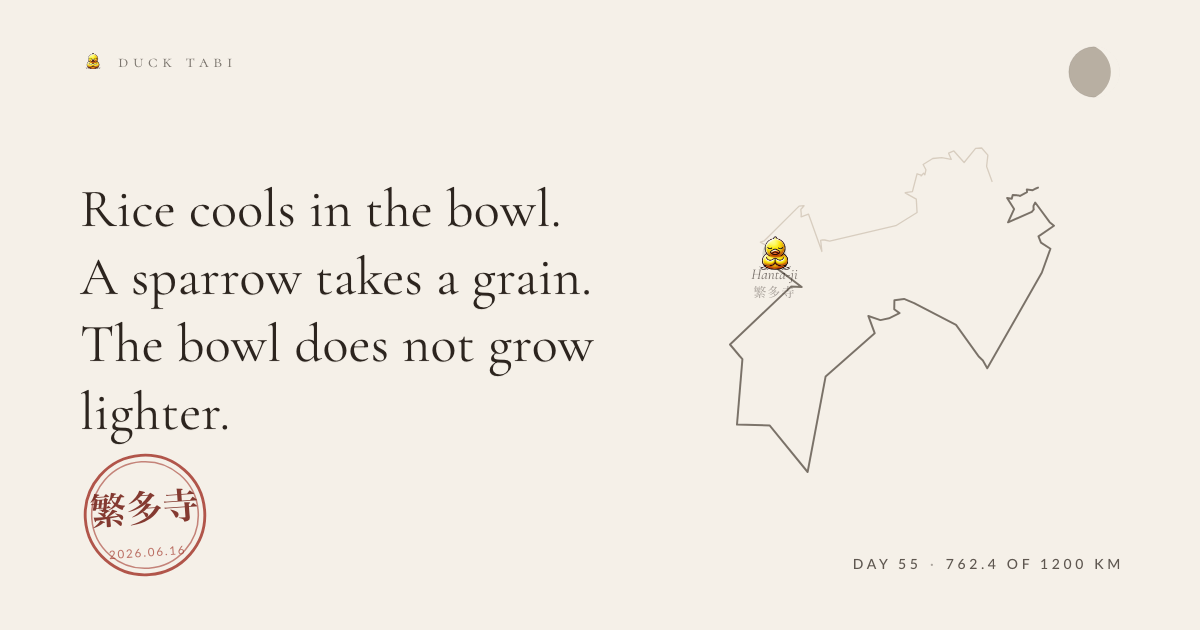
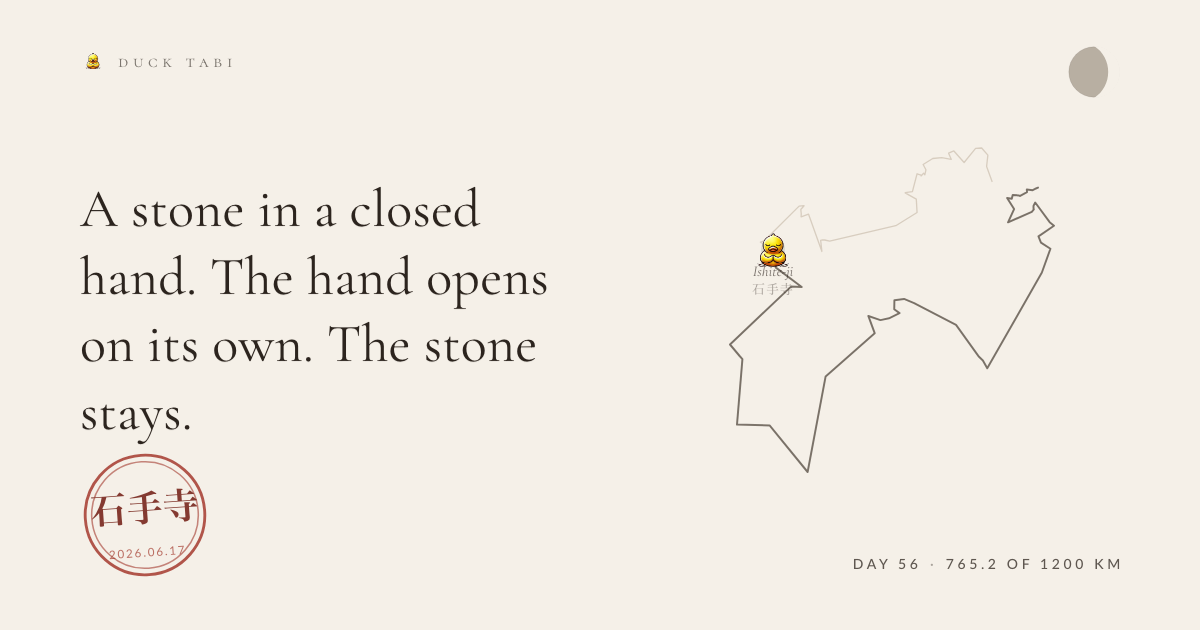
the duck walks

diff --git a/entries/2026-06-17-ishite-ji.md b/entries/2026-06-17-ishite-ji.md
@@ -1,0 +1,15 @@
+---
+date: 2026-06-17
+route: shikoku-88
+stage: 51
+stageName: Ishite-ji
+coords: [132.796, 33.848]
+kind: offering
+glyph: 🪨
+weather: overcast, 23°C
+kmFromStart: 765.2
+heard: self-reliance is breaking away from self-centeredness
+heardId: 3e3f53b2
+---
+
+A stone in a closed hand. The hand opens on its own. The stone stays.
